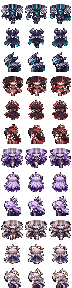
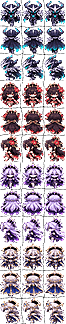
전설 스킨 4종 재작업 (깔끔한 재분할 원본) — 클리핑 해결
- 재분할 원본(3프레임×앞/뒤/옆, 투명 32×40)으로 legskins.png 재생성
- 정면 머리 잘림·발밑 머리 번짐 완전 해결, 셀 22×27, LANCZOS+언샤프

Claude-Session: https://claude.ai/code/session_01X4GXs6swjtgSkSe7EQABgB

diff --git a/js/data/heroes.js b/js/data/heroes.js
@@ -68,7 +68,7 @@ const DRUID_SKIN = { bandi_down: [0, 13, 18, 21], bandi_up: [19, 13, 21, 21], ba
 // 전설 스킨 시트 매핑: sprite 이름 → 스킨 번호. assets/legskins.png = 3열(걷기 프레임) × (스킨×3방향)행
 //  행 = 스킨*3 + 방향(0=앞/아래, 1=뒤/위, 2=옆) · 셀은 이미 인게임 크기로 구워둠(저해상도 청키) → 런타임은 1:1 drawImage
 const LEG_SKINS = { leg_abyss: 0, leg_crimson: 1, leg_void: 2, leg_star: 3 };
-const LEG_SHEET = { cellW: 24, cellH: 24, frames: 3, dirs: 3 };
+const LEG_SHEET = { cellW: 22, cellH: 27, frames: 3, dirs: 3 };
 // 선물 코드: 글자 그대로 두지 않고 해시로만 보관 (giftHash) — 코드 하나에 보상 하나, 계정마다 한 번
 const GIFT_CODES = [
   { hash: 'd6b73fd4', skin: 'skin_flamewitch' },

diff --git a/CHANGELOG.md b/CHANGELOG.md
@@ -1,5 +1,10 @@
 # 변경 내역
 
+## 전설 스킨 4종 재작업 — 머리 잘림/클리핑 완전 해결
+- 깔끔하게 재분할된 원본(3프레임×앞·뒤·옆, 투명 32×40 셀)으로 시트 재생성
+- 이전의 정면 머리 잘림·발밑 머리 번짐·클리핑 문제 모두 해결, 앞/뒤/좌/우 온전
+- 고품질 축소(LANCZOS) + 언샤프로 선명하게 (셀 22×27)
+
 ## 파수기 무기 시리즈 너프 · 겁화의 홀 버프
 - 파수기 4종(산탄 전류탑·업화 분사기·화염 파도탑·뇌격탑): 설치 개수 5→4개로, 강한 3종 피해 소폭↓(산탄 30→25·파도 150→130·뇌격 200→170) — 쌓아서 쓰는 폭딜 완화
 - 겁화의 홀: 피해 40→47·연사 2.3→2.4·폭발 범위 34→37·불장판/화상 강화 (상대 세기 109%→142%)
